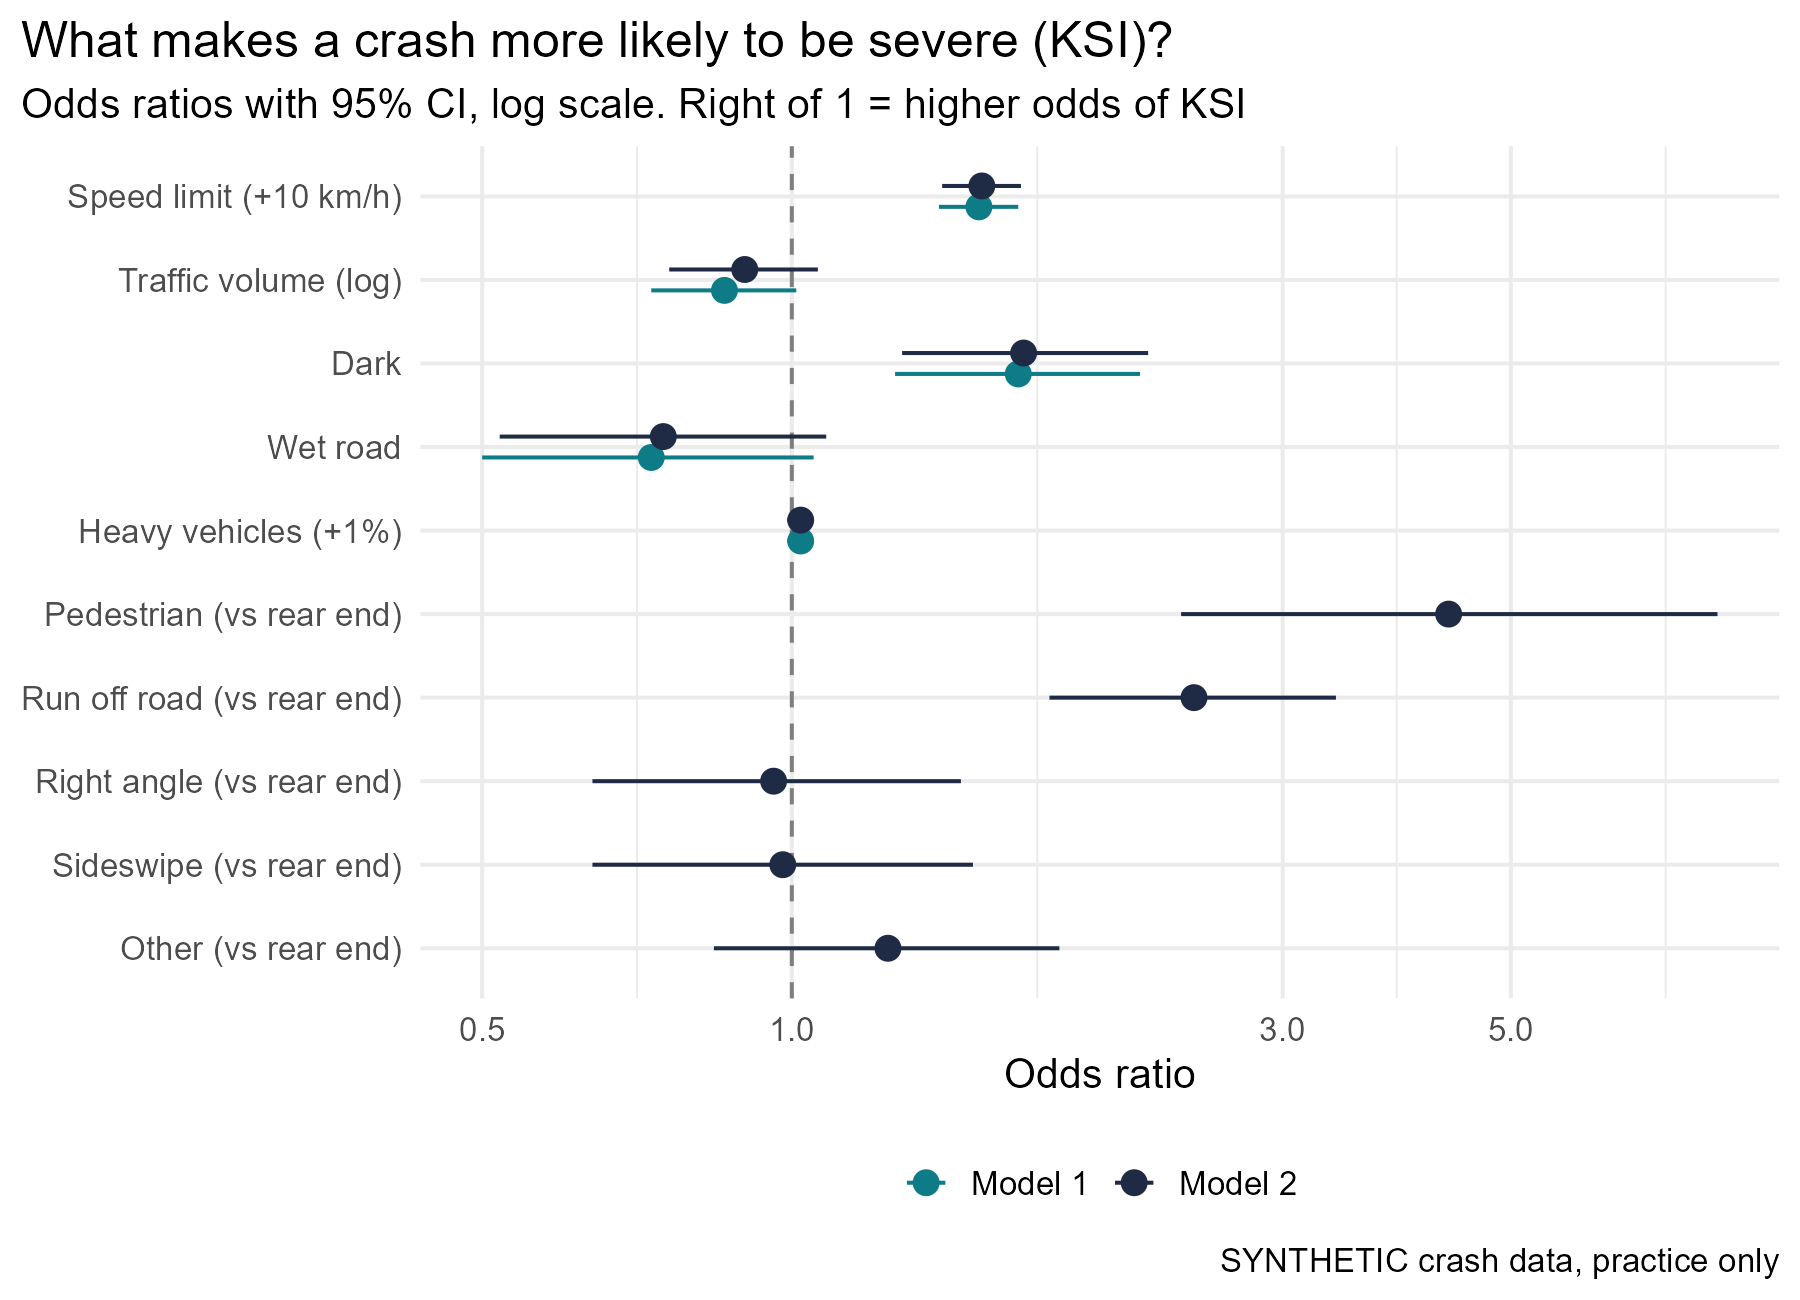
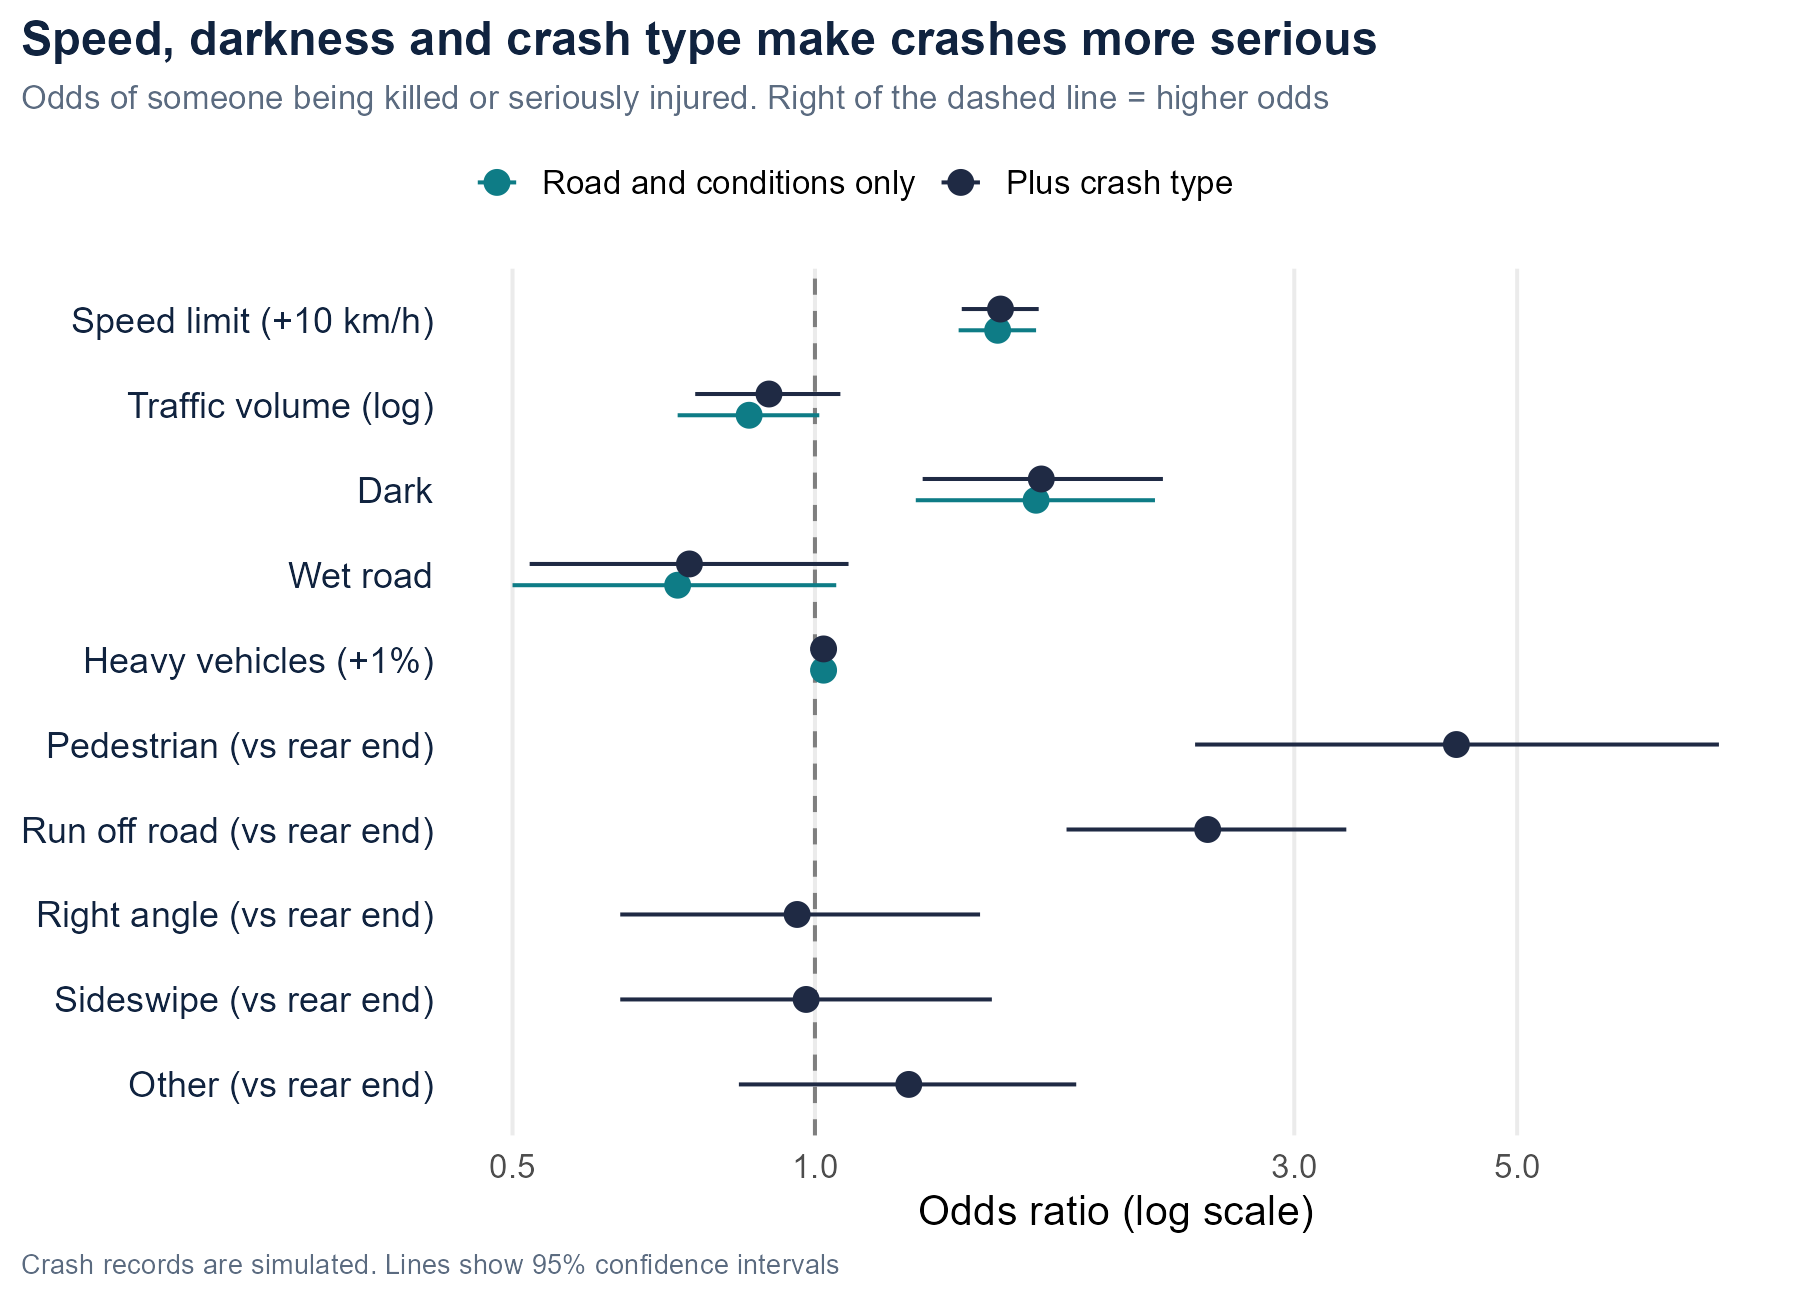
Restyle road-crash charts in the site's navy and teal palette

diff --git a/road-crash.html b/road-crash.html
@@ -187,7 +187,7 @@
 
             <div class="study-gallery is-stacked">
               <figure>
-                <img src="images/road-crash-types.png" alt="Stacked bar chart of crash type share by road profile. Rear-end crashes dominate busy roads; run-off-road crashes are most common on quiet, fast roads." loading="lazy" width="1800" height="1100" />
+                <img src="images/road-crash-types.png" alt="Stacked bar chart in navy and teal of crash type share on four kinds of road. Rear-end crashes are 43% on busy roads; run-off-road crashes are 25% on quiet, fast roads." loading="lazy" width="2000" height="1100" />
                 <figcaption><strong>Fig 2</strong>Crash type mix by road profile.</figcaption>
               </figure>
               <figure>
